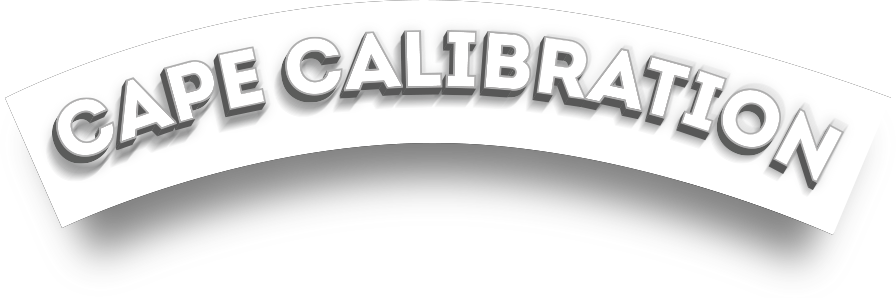
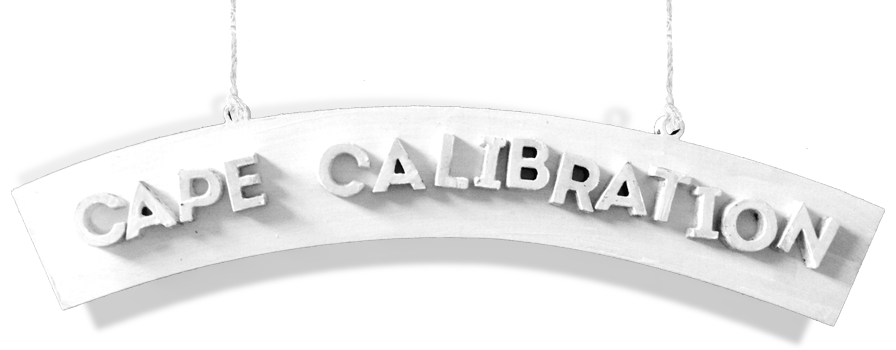
added signs

diff --git a/SuperHero_v8/ble_js/public/sketch.js b/SuperHero_v8/ble_js/public/sketch.js
@@ -400,7 +400,7 @@ function setup() {
   callibrationImage = loadImage('assets/Callibration.png');
   shadow = loadImage('assets/shadow.png');
   CapeCalibrationSign = createImg('assets/CapeCalibrationSign2.png');
-  CapeCalibrationSign.class('class7').position((windowWidth / 2) - 443, 30);
+  CapeCalibrationSign.class('class7').position((windowWidth / 2) - 443, -60);
 
 
   // scene 3 flight test
@@ -411,8 +411,8 @@ function setup() {
   flapTemp1.class('class3').id('flap1').class('flap1').position(windowWidth / 2 - 250, 240);
   flapTemp2.class('class3').id('flap2').size(462, 440).position(windowWidth / 2 - 250, 240).class('flyIn3');
   $("#flap2").hide();
-  FlightSchoolSign = createImg('assets/FlightSchoolSign2.png');
-  FlightSchoolSign.class('class3').class('sign').position((windowWidth / 2) - 443, 30);
+  FlightSchoolSign = createImg('assets/FlightSchoolSign3.png');
+  FlightSchoolSign.class('class3').class('sign').position((windowWidth / 2) - 443, -30);
 
 
   for (var m = 0; m < totalstars; m++) {
